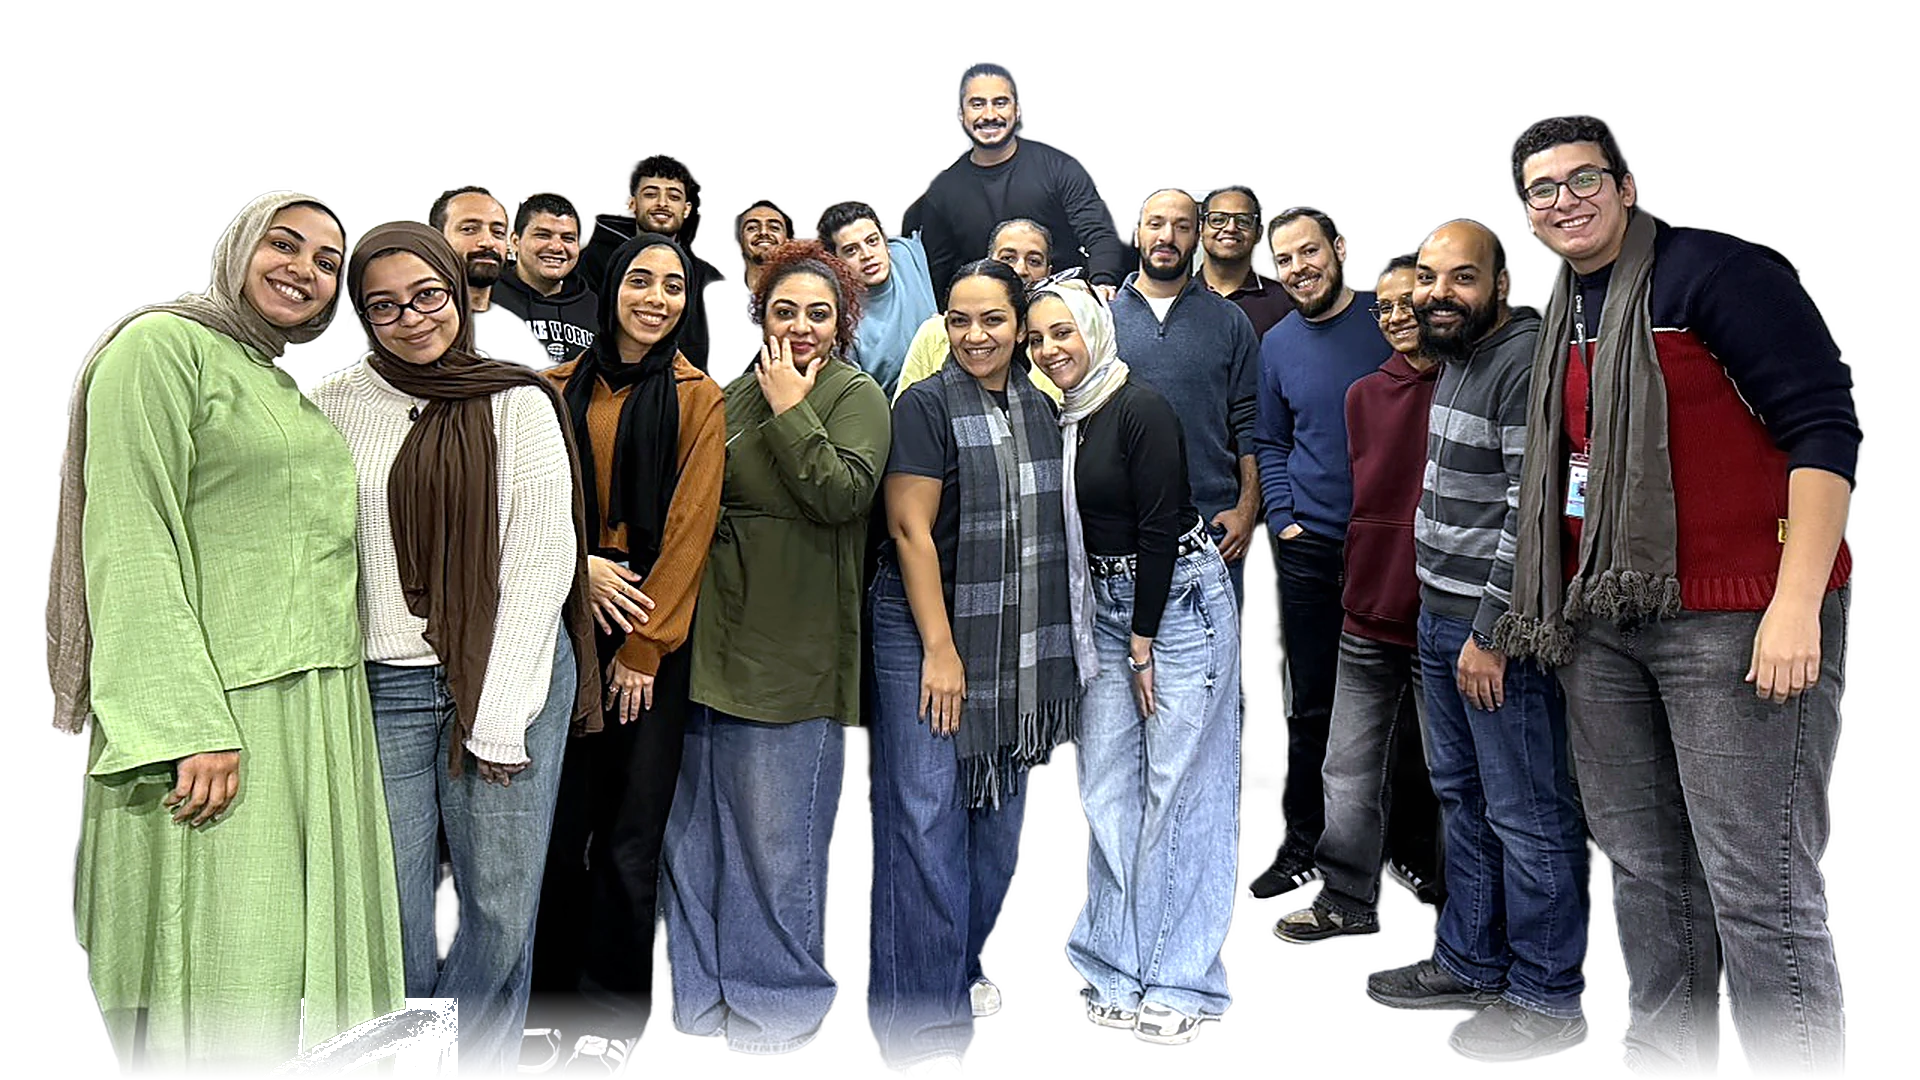
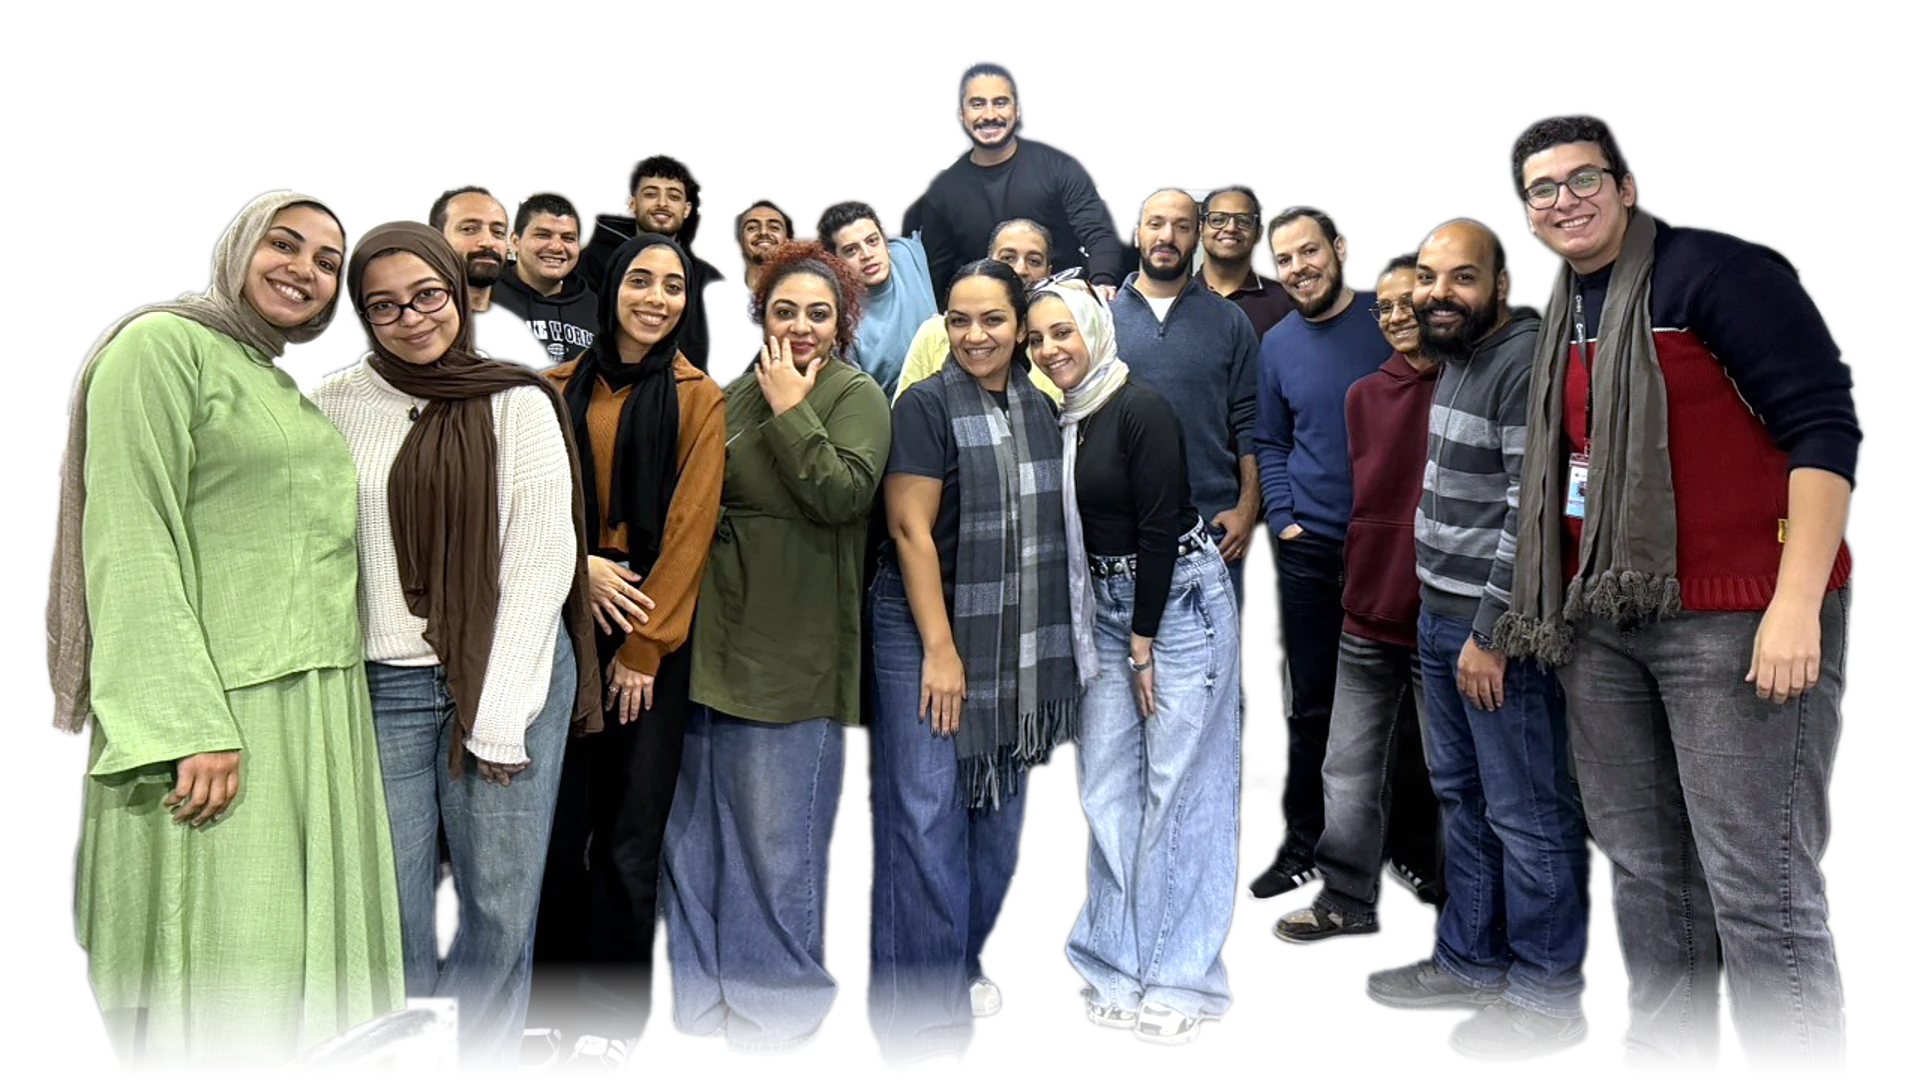
Team band: smoother photo (softer edges, gentler sharpening) and calmer motion
Claude-Session: https://claude.ai/code/session_01K63jUYQAFg96QFSp3oWnoN

diff --git a/assets/js/router.js b/assets/js/router.js
@@ -12,20 +12,20 @@
  *   #/<course>   #/<course>/learn[/<lesson>]   #/<course>/resources   #/<course>/extras
  * Course ids can't be one of RESERVED (check_content.py in the builder repo enforces this).
  */
-import { $, focusEl } from './core/dom.js?v=8e241242';
-import { App, siteName } from './data/catalog.js?v=8e241242';
-import { secsOf, quizOf, path, findLesson } from './data/course.js?v=8e241242';
-import { nav } from './ui/nav.js?v=8e241242';
-import { reveal } from './ui/reveal.js?v=8e241242';
-import { home } from './views/home.js?v=8e241242';
-import { explore } from './views/explore.js?v=8e241242';
-import { categories, category } from './views/categories.js?v=8e241242';
-import { myLearning } from './views/my.js?v=8e241242';
-import { overview } from './views/overview.js?v=8e241242';
-import { learn } from './views/learn.js?v=8e241242';
-import { resources } from './views/resources.js?v=8e241242';
-import { extras, collection } from './views/extras.js?v=8e241242';
-import { notFound, soonPage, courseFailed, pageError } from './views/status.js?v=8e241242';
+import { $, focusEl } from './core/dom.js?v=e03e6c67';
+import { App, siteName } from './data/catalog.js?v=e03e6c67';
+import { secsOf, quizOf, path, findLesson } from './data/course.js?v=e03e6c67';
+import { nav } from './ui/nav.js?v=e03e6c67';
+import { reveal } from './ui/reveal.js?v=e03e6c67';
+import { home } from './views/home.js?v=e03e6c67';
+import { explore } from './views/explore.js?v=e03e6c67';
+import { categories, category } from './views/categories.js?v=e03e6c67';
+import { myLearning } from './views/my.js?v=e03e6c67';
+import { overview } from './views/overview.js?v=e03e6c67';
+import { learn } from './views/learn.js?v=e03e6c67';
+import { resources } from './views/resources.js?v=e03e6c67';
+import { extras, collection } from './views/extras.js?v=e03e6c67';
+import { notFound, soonPage, courseFailed, pageError } from './views/status.js?v=e03e6c67';
 
 export const RESERVED = ['explore', 'categories', 'my', 'trainings', 'topics'];
 

diff --git a/index.html b/index.html
@@ -13,7 +13,7 @@
 <link rel="icon" href="img/kalam-mark.png">
 <link rel="preconnect" href="https://fonts.googleapis.com"><link rel="preconnect" href="https://fonts.gstatic.com" crossorigin>
 <link href="https://fonts.googleapis.com/css2?family=Inter:opsz,wght@14..32,400;14..32,500;14..32,600;14..32,700&display=swap" rel="stylesheet">
-<link rel="stylesheet" href="assets/app.css?v=8e241242">
+<link rel="stylesheet" href="assets/app.css?v=e03e6c67">
 </head>
 <body>
 <a class="skip" href="#app" id="skip">Skip to main content</a>
@@ -26,7 +26,7 @@
 <main id="app"><div class="skel" aria-busy="true"><div class="in"><span class="sr" role="status">Loading Kalam Learning…</span><i class="s1"></i><i class="s2"></i><i class="s3"></i><i class="s4"></i><div class="sg"><i></i><i></i></div></div></div><noscript><style>.skel{display:none}</style><p class="loading">Kalam Learning needs JavaScript turned on.</p></noscript></main>
 <footer><div class="in"><p id="foot" hidden></p><div class="fl"><img src="img/kalam-logo.png" alt="Kalam CX"><span>Kalam CX · Learning &amp; Development · 2026</span></div></div></footer>
 <div id="ytm" class="ytm" hidden><div class="ytbox" role="dialog" aria-modal="true" aria-labelledby="ytt"><div class="ytframe"></div><div class="ytbar"><div><small id="ytc"></small><b id="ytt"></b></div><div class="ytact"><a id="ytl" class="link" target="_blank" rel="noopener">Open on YouTube</a><button id="ytx" class="pill">Close</button></div></div></div></div>
-<script type="module" src="assets/js/main.js?v=8e241242"></script>
+<script type="module" src="assets/js/main.js?v=e03e6c67"></script>
 <script nomodule>document.getElementById("app").innerHTML='<p class="loading">Kalam Learning needs a newer browser. Please update Chrome, Edge, Safari or Firefox.</p>'</script>
 </body>
 </html>

diff --git a/assets/js/views/overview.js b/assets/js/views/overview.js
@@ -2,16 +2,16 @@
  * Course overview, in parts: the short course (if any) · the modules · extra videos (if any) · files · about.
  * Each part is its own function so a part can be changed or reordered without reading the others.
  */
-import { $, $$, esc, focusEl } from '../core/dom.js?v=8e241242';
-import { CHEV, CHECK, PLAY, ICON } from '../core/icons.js?v=8e241242';
-import { plural, hours, langShort, isFree } from '../core/format.js?v=8e241242';
-import { topicOf, peopleOf, extrasOf } from '../data/catalog.js?v=8e241242';
-import { isVid, vids, mins, quizOf, secsOf, shortOf, examOf, word, timeOf, filesOf, path } from '../data/course.js?v=8e241242';
-import { mediaUrl, thumbOf } from '../data/media.js?v=8e241242';
-import { Store } from '../progress/store.js?v=8e241242';
-import { progress, lessonDone, passed } from '../progress/progress.js?v=8e241242';
-import { bar, nextLine } from '../ui/cards.js?v=8e241242';
-import { trail } from '../ui/nav.js?v=8e241242';
+import { $, $$, esc, focusEl } from '../core/dom.js?v=e03e6c67';
+import { CHEV, CHECK, PLAY, ICON } from '../core/icons.js?v=e03e6c67';
+import { plural, hours, langShort, isFree } from '../core/format.js?v=e03e6c67';
+import { topicOf, peopleOf, extrasOf } from '../data/catalog.js?v=e03e6c67';
+import { isVid, vids, mins, quizOf, secsOf, shortOf, examOf, word, timeOf, filesOf, path } from '../data/course.js?v=e03e6c67';
+import { mediaUrl, thumbOf } from '../data/media.js?v=e03e6c67';
+import { Store } from '../progress/store.js?v=e03e6c67';
+import { progress, lessonDone, passed } from '../progress/progress.js?v=e03e6c67';
+import { bar, nextLine } from '../ui/cards.js?v=e03e6c67';
+import { trail } from '../ui/nav.js?v=e03e6c67';
 
 /* ----- cards ----- */
 

diff --git a/assets/js/views/learn.js b/assets/js/views/learn.js
@@ -2,14 +2,14 @@
  * The learning view: the lesson (drawn by its renderer in lessons/), previous/next, and the lessons sidebar on the right.
  * Moving between lessons of the same course redraws only the lesson and the sidebar (View.update), so the layout stays put.
  */
-import { $, esc, focusEl, storage } from '../core/dom.js?v=8e241242';
-import { CHECK, ICON } from '../core/icons.js?v=8e241242';
-import { secsOf, shortOf, examOf, word, filesOf, path, modName, modShort } from '../data/course.js?v=8e241242';
-import { Store } from '../progress/store.js?v=8e241242';
-import { progress, lessonDone } from '../progress/progress.js?v=8e241242';
-import { bar } from '../ui/cards.js?v=8e241242';
-import { trail } from '../ui/nav.js?v=8e241242';
-import { rendererFor } from '../lessons/index.js?v=8e241242';
+import { $, esc, focusEl, storage } from '../core/dom.js?v=e03e6c67';
+import { CHECK, ICON } from '../core/icons.js?v=e03e6c67';
+import { secsOf, shortOf, examOf, word, filesOf, path, modName, modShort } from '../data/course.js?v=e03e6c67';
+import { Store } from '../progress/store.js?v=e03e6c67';
+import { progress, lessonDone } from '../progress/progress.js?v=e03e6c67';
+import { bar } from '../ui/cards.js?v=e03e6c67';
+import { trail } from '../ui/nav.js?v=e03e6c67';
+import { rendererFor } from '../lessons/index.js?v=e03e6c67';
 
 const PHONE = 900;                    /* px: below this the sidebar is a drawer that starts closed */
 const SIDEBAR_KEY = 'kalam.sidebar';  /* 'open' | 'closed', remembered for desktop */

diff --git a/assets/js/views/extras.js b/assets/js/views/extras.js
@@ -1,13 +1,13 @@
 /** Collections (curated videos, e.g. Expert Picks): a grid of video cards that open in the pop-up player. */
-import { $$, esc } from '../core/dom.js?v=8e241242';
-import { PLAY } from '../core/icons.js?v=8e241242';
-import { extrasOf } from '../data/catalog.js?v=8e241242';
-import { secsOf, vids, allLessons } from '../data/course.js?v=8e241242';
-import { thumbOf } from '../data/media.js?v=8e241242';
-import { Store } from '../progress/store.js?v=8e241242';
-import { trail } from '../ui/nav.js?v=8e241242';
-import { openVideo } from '../ui/modal.js?v=8e241242';
-import { notFound } from './status.js?v=8e241242';
+import { $$, esc } from '../core/dom.js?v=e03e6c67';
+import { PLAY } from '../core/icons.js?v=e03e6c67';
+import { extrasOf } from '../data/catalog.js?v=e03e6c67';
+import { secsOf, vids, allLessons } from '../data/course.js?v=e03e6c67';
+import { thumbOf } from '../data/media.js?v=e03e6c67';
+import { Store } from '../progress/store.js?v=e03e6c67';
+import { trail } from '../ui/nav.js?v=e03e6c67';
+import { openVideo } from '../ui/modal.js?v=e03e6c67';
+import { notFound } from './status.js?v=e03e6c67';
 
 function videoCard(c, L) {
   return `<button class="yt rv" data-c="${c.id}" data-l="${esc(L.id)}"><span class="ytimg"><img src="${esc(thumbOf(c, L))}" alt="" loading="lazy"><span class="play">${PLAY}</span>${L.minutes ? `<span class="dur">${+L.minutes} min</span>` : ''}${Store.isDone(c.id, L.id) ? '<span class="seen-mark">✓<span class="sr"> Watched</span></span>' : ''}</span>

diff --git a/assets/app.css b/assets/app.css
@@ -426,10 +426,10 @@ kbd{font:600 12px/1 var(--sf);background:var(--white);border:1px solid var(--lin
 .team .sub{color:rgba(255,255,255,.82);margin:0;max-width:46ch;font-size:clamp(17px,1.8vw,20px)}
 .band.teamb{padding-bottom:56px}
 /* gentle motion: the people drift in and slowly breathe; off for reduced motion */
-.team img{transform-origin:50% 60%;animation:teamin 1.4s cubic-bezier(.2,.7,.2,1) both,teamdrift 16s ease-in-out 1.4s infinite alternate;will-change:transform}
+.team img{transform-origin:50% 60%;animation:teamin 1.8s cubic-bezier(.22,.61,.36,1) both,teamdrift 24s ease-in-out 1.8s infinite alternate;will-change:transform;backface-visibility:hidden}
 .team .tx>*{animation:teamtx .9s cubic-bezier(.2,.7,.2,1) both}.team .tx>*:nth-child(2){animation-delay:.12s}.team .tx>*:nth-child(3){animation-delay:.24s}
-@keyframes teamin{from{opacity:0;transform:scale(1.08) translateY(18px)}to{opacity:1;transform:none}}
-@keyframes teamdrift{from{transform:none}to{transform:scale(1.045) translateY(-6px)}}
+@keyframes teamin{from{opacity:0;transform:scale(1.04)}to{opacity:1;transform:scale(1)}}
+@keyframes teamdrift{from{transform:scale(1)}to{transform:scale(1.03)}}
 @keyframes teamtx{from{opacity:0;transform:translateY(14px)}to{opacity:1;transform:none}}
 @media (prefers-reduced-motion:reduce){.team img,.team .tx>*{animation:none}}
 @media (max-width:833px){.team{border-radius:22px}.team .tx{position:static;padding:22px 22px 26px;background:var(--plum-d)}}

diff --git a/assets/js/views/explore.js b/assets/js/views/explore.js
@@ -1,11 +1,11 @@
 /** Explore: search + filters over the real course data. Filters live in the URL (#/explore?q=&topic=…) so links can be shared. */
-import { $, $$, esc } from '../core/dom.js?v=8e241242';
-import { LANG, plural, isFree } from '../core/format.js?v=8e241242';
-import { App, live, planned, topicId, topicOf, peopleOf } from '../data/catalog.js?v=8e241242';
-import { secsOf, allLessons, timeOf } from '../data/course.js?v=8e241242';
-import { courseCard, searchForm } from '../ui/cards.js?v=8e241242';
-import { revealNow } from '../ui/reveal.js?v=8e241242';
-import { failedNote } from './status.js?v=8e241242';
+import { $, $$, esc } from '../core/dom.js?v=e03e6c67';
+import { LANG, plural, isFree } from '../core/format.js?v=e03e6c67';
+import { App, live, planned, topicId, topicOf, peopleOf } from '../data/catalog.js?v=e03e6c67';
+import { secsOf, allLessons, timeOf } from '../data/course.js?v=e03e6c67';
+import { courseCard, searchForm } from '../ui/cards.js?v=e03e6c67';
+import { revealNow } from '../ui/reveal.js?v=e03e6c67';
+import { failedNote } from './status.js?v=e03e6c67';
 
 const DUR = [['short', 'Under 2 hours of video', m => m < 120], ['medium', '2 to 6 hours of video', m => m >= 120 && m <= 360], ['long', 'Over 6 hours of video', m => m > 360]];
 

diff --git a/assets/js/ui/cards.js b/assets/js/ui/cards.js
@@ -1,11 +1,11 @@
 /** Reusable pieces of markup: course cards, category tiles, resume rows, progress bars, the search box. */
-import { esc } from '../core/dom.js?v=8e241242';
-import { PLAY } from '../core/icons.js?v=8e241242';
-import { plural, hrs, langShort, isFree, clock } from '../core/format.js?v=8e241242';
-import { topicOf, topicId, live, listed, peopleOf } from '../data/catalog.js?v=8e241242';
-import { url, vids, timeOf, modShort } from '../data/course.js?v=8e241242';
-import { thumbOf } from '../data/media.js?v=8e241242';
-import { progress } from '../progress/progress.js?v=8e241242';
+import { esc } from '../core/dom.js?v=e03e6c67';
+import { PLAY } from '../core/icons.js?v=e03e6c67';
+import { plural, hrs, langShort, isFree, clock } from '../core/format.js?v=e03e6c67';
+import { topicOf, topicId, live, listed, peopleOf } from '../data/catalog.js?v=e03e6c67';
+import { url, vids, timeOf, modShort } from '../data/course.js?v=e03e6c67';
+import { thumbOf } from '../data/media.js?v=e03e6c67';
+import { progress } from '../progress/progress.js?v=e03e6c67';
 
 /** A progress bar with an accessible label. */
 export const bar = p => `<span class="pbar" role="img" aria-label="${p}% complete"><i style="width:${p}%"></i></span>`;

diff --git a/assets/js/main.js b/assets/js/main.js
@@ -10,14 +10,14 @@
  *          ui/ shared markup and widgets · views/ one file per page · lessons/ one file per lesson type ·
  *          player/ the video player · router.js the addresses
  */
-import { $, focusEl } from './core/dom.js?v=8e241242';
-import { App } from './data/catalog.js?v=8e241242';
-import { loadAll } from './data/load.js?v=8e241242';
-import { route, resetRoute } from './router.js?v=8e241242';
-import { Store } from './progress/store.js?v=8e241242';
-import { loadError } from './views/status.js?v=8e241242';
-import { initMenu } from './ui/nav.js?v=8e241242';
-import { initModal } from './ui/modal.js?v=8e241242';
+import { $, focusEl } from './core/dom.js?v=e03e6c67';
+import { App } from './data/catalog.js?v=e03e6c67';
+import { loadAll } from './data/load.js?v=e03e6c67';
+import { route, resetRoute } from './router.js?v=e03e6c67';
+import { Store } from './progress/store.js?v=e03e6c67';
+import { loadError } from './views/status.js?v=e03e6c67';
+import { initMenu } from './ui/nav.js?v=e03e6c67';
+import { initModal } from './ui/modal.js?v=e03e6c67';
 
 document.documentElement.classList.add('js');
 

diff --git a/assets/js/views/home.js b/assets/js/views/home.js
@@ -1,10 +1,10 @@
 /** Home: headline, continue learning, the courses, and how a course works. */
-import { esc } from '../core/dom.js?v=8e241242';
-import { CHEV } from '../core/icons.js?v=8e241242';
-import { App, live, listed, planned, topicId, siteName } from '../data/catalog.js?v=8e241242';
-import { Store } from '../progress/store.js?v=8e241242';
-import { courseCard, resumeRow } from '../ui/cards.js?v=8e241242';
-import { failedNote } from './status.js?v=8e241242';
+import { esc } from '../core/dom.js?v=e03e6c67';
+import { CHEV } from '../core/icons.js?v=e03e6c67';
+import { App, live, listed, planned, topicId, siteName } from '../data/catalog.js?v=e03e6c67';
+import { Store } from '../progress/store.js?v=e03e6c67';
+import { courseCard, resumeRow } from '../ui/cards.js?v=e03e6c67';
+import { failedNote } from './status.js?v=e03e6c67';
 
 /** Courses the learner has started, most recent first. */
 export const startedCourses = () => live().filter(c => Store.started(c.id)).sort((a, b) => Store.at(b.id) - Store.at(a.id));

diff --git a/assets/js/lessons/video.js b/assets/js/lessons/video.js
@@ -1,9 +1,9 @@
 /** Video lessons (type video, embed, youtube). Which player is used is decided by data/media.js. */
-import { $, esc } from '../core/dom.js?v=8e241242';
-import { isFramed, frameHtml, fileSrc, mediaUrl } from '../data/media.js?v=8e241242';
-import { Store } from '../progress/store.js?v=8e241242';
-import { attachPlayer, playerControls } from '../player/player.js?v=8e241242';
-import { actionBar, moduleFiles, complete, showCompleted } from './common.js?v=8e241242';
+import { $, esc } from '../core/dom.js?v=e03e6c67';
+import { isFramed, frameHtml, fileSrc, mediaUrl } from '../data/media.js?v=e03e6c67';
+import { Store } from '../progress/store.js?v=e03e6c67';
+import { attachPlayer, playerControls } from '../player/player.js?v=e03e6c67';
+import { actionBar, moduleFiles, complete, showCompleted } from './common.js?v=e03e6c67';
 
 /** @type {{render:(ctx:import('./common.js').LessonCtx)=>string, wire:(ctx:import('./common.js').LessonCtx)=>void}} */
 export const videoLesson = {

diff --git a/assets/js/lessons/index.js b/assets/js/lessons/index.js
@@ -2,13 +2,13 @@
  * Lesson types → renderers. To add a lesson type: write a renderer ({render, wire?}) and add it here,
  * then teach check_content.py (builder repo) to check its fields.
  */
-import { esc } from '../core/dom.js?v=8e241242';
-import { videoLesson } from './video.js?v=8e241242';
-import { readingLesson } from './reading.js?v=8e241242';
-import { practiceLesson } from './practice.js?v=8e241242';
-import { quizLesson } from './quiz.js?v=8e241242';
-import { examLesson } from './exam.js?v=8e241242';
-import { actionBar } from './common.js?v=8e241242';
+import { esc } from '../core/dom.js?v=e03e6c67';
+import { videoLesson } from './video.js?v=e03e6c67';
+import { readingLesson } from './reading.js?v=e03e6c67';
+import { practiceLesson } from './practice.js?v=e03e6c67';
+import { quizLesson } from './quiz.js?v=e03e6c67';
+import { examLesson } from './exam.js?v=e03e6c67';
+import { actionBar } from './common.js?v=e03e6c67';
 
 const LESSONS = {
   video: videoLesson,
